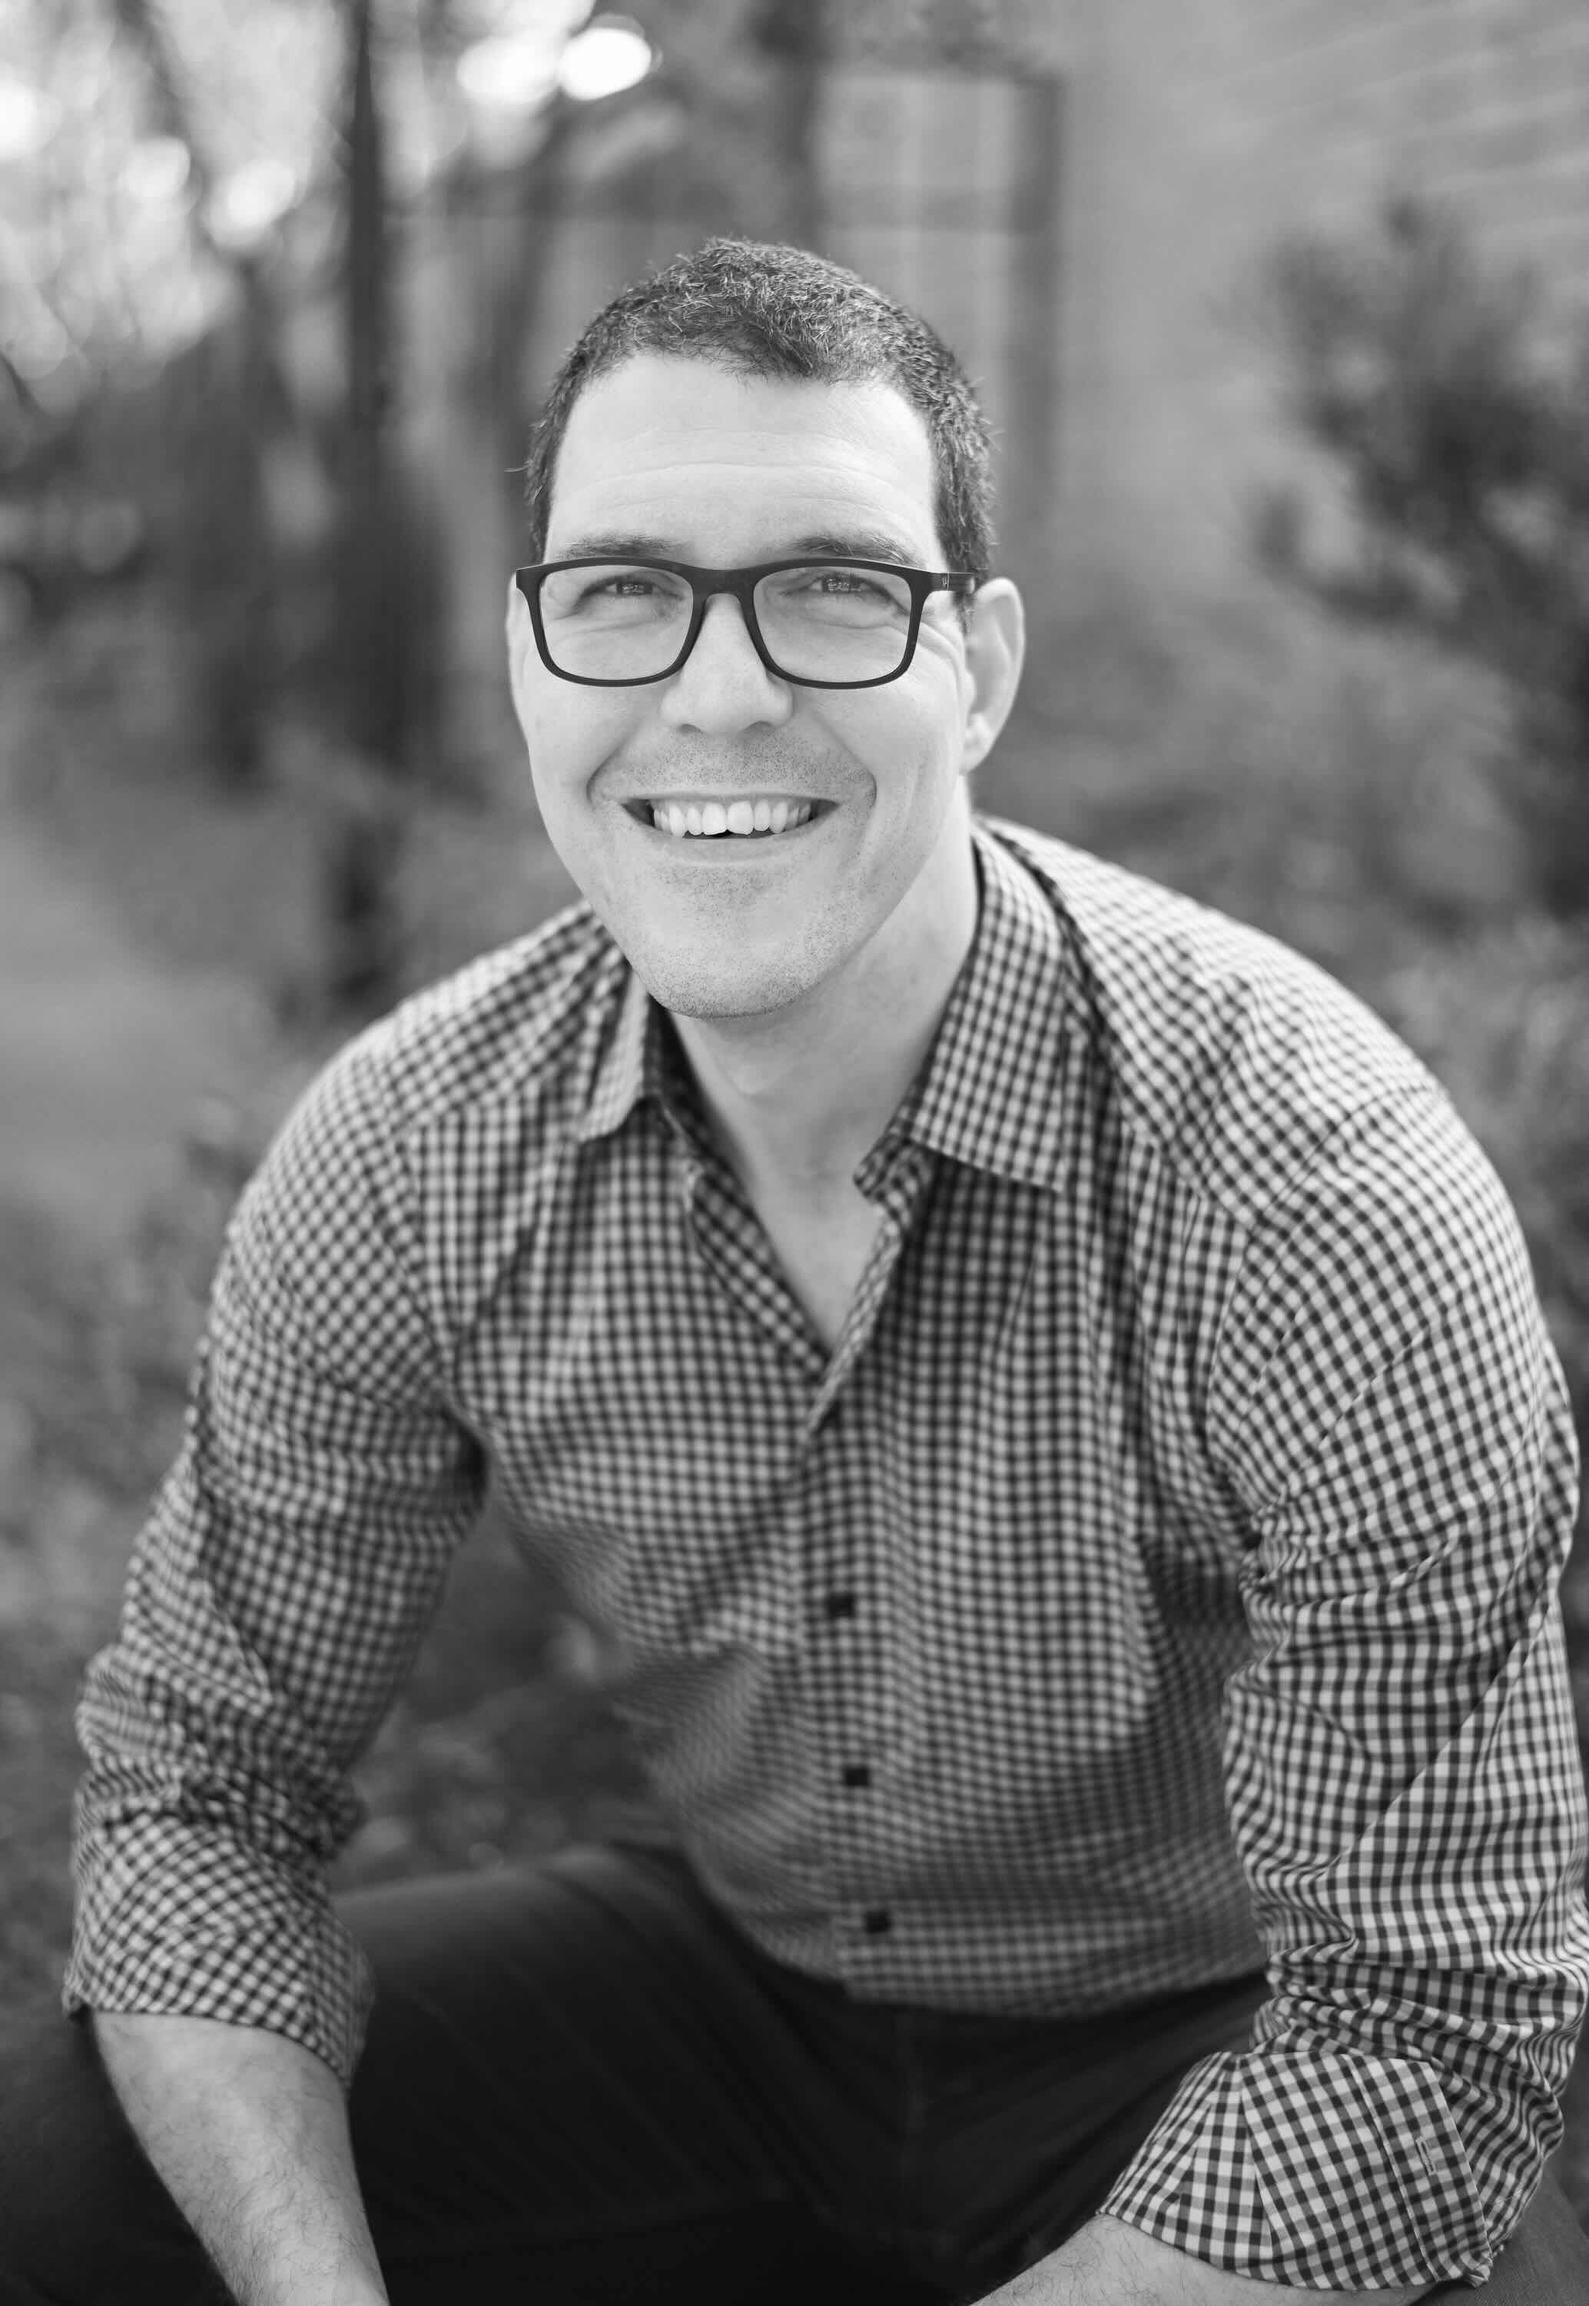
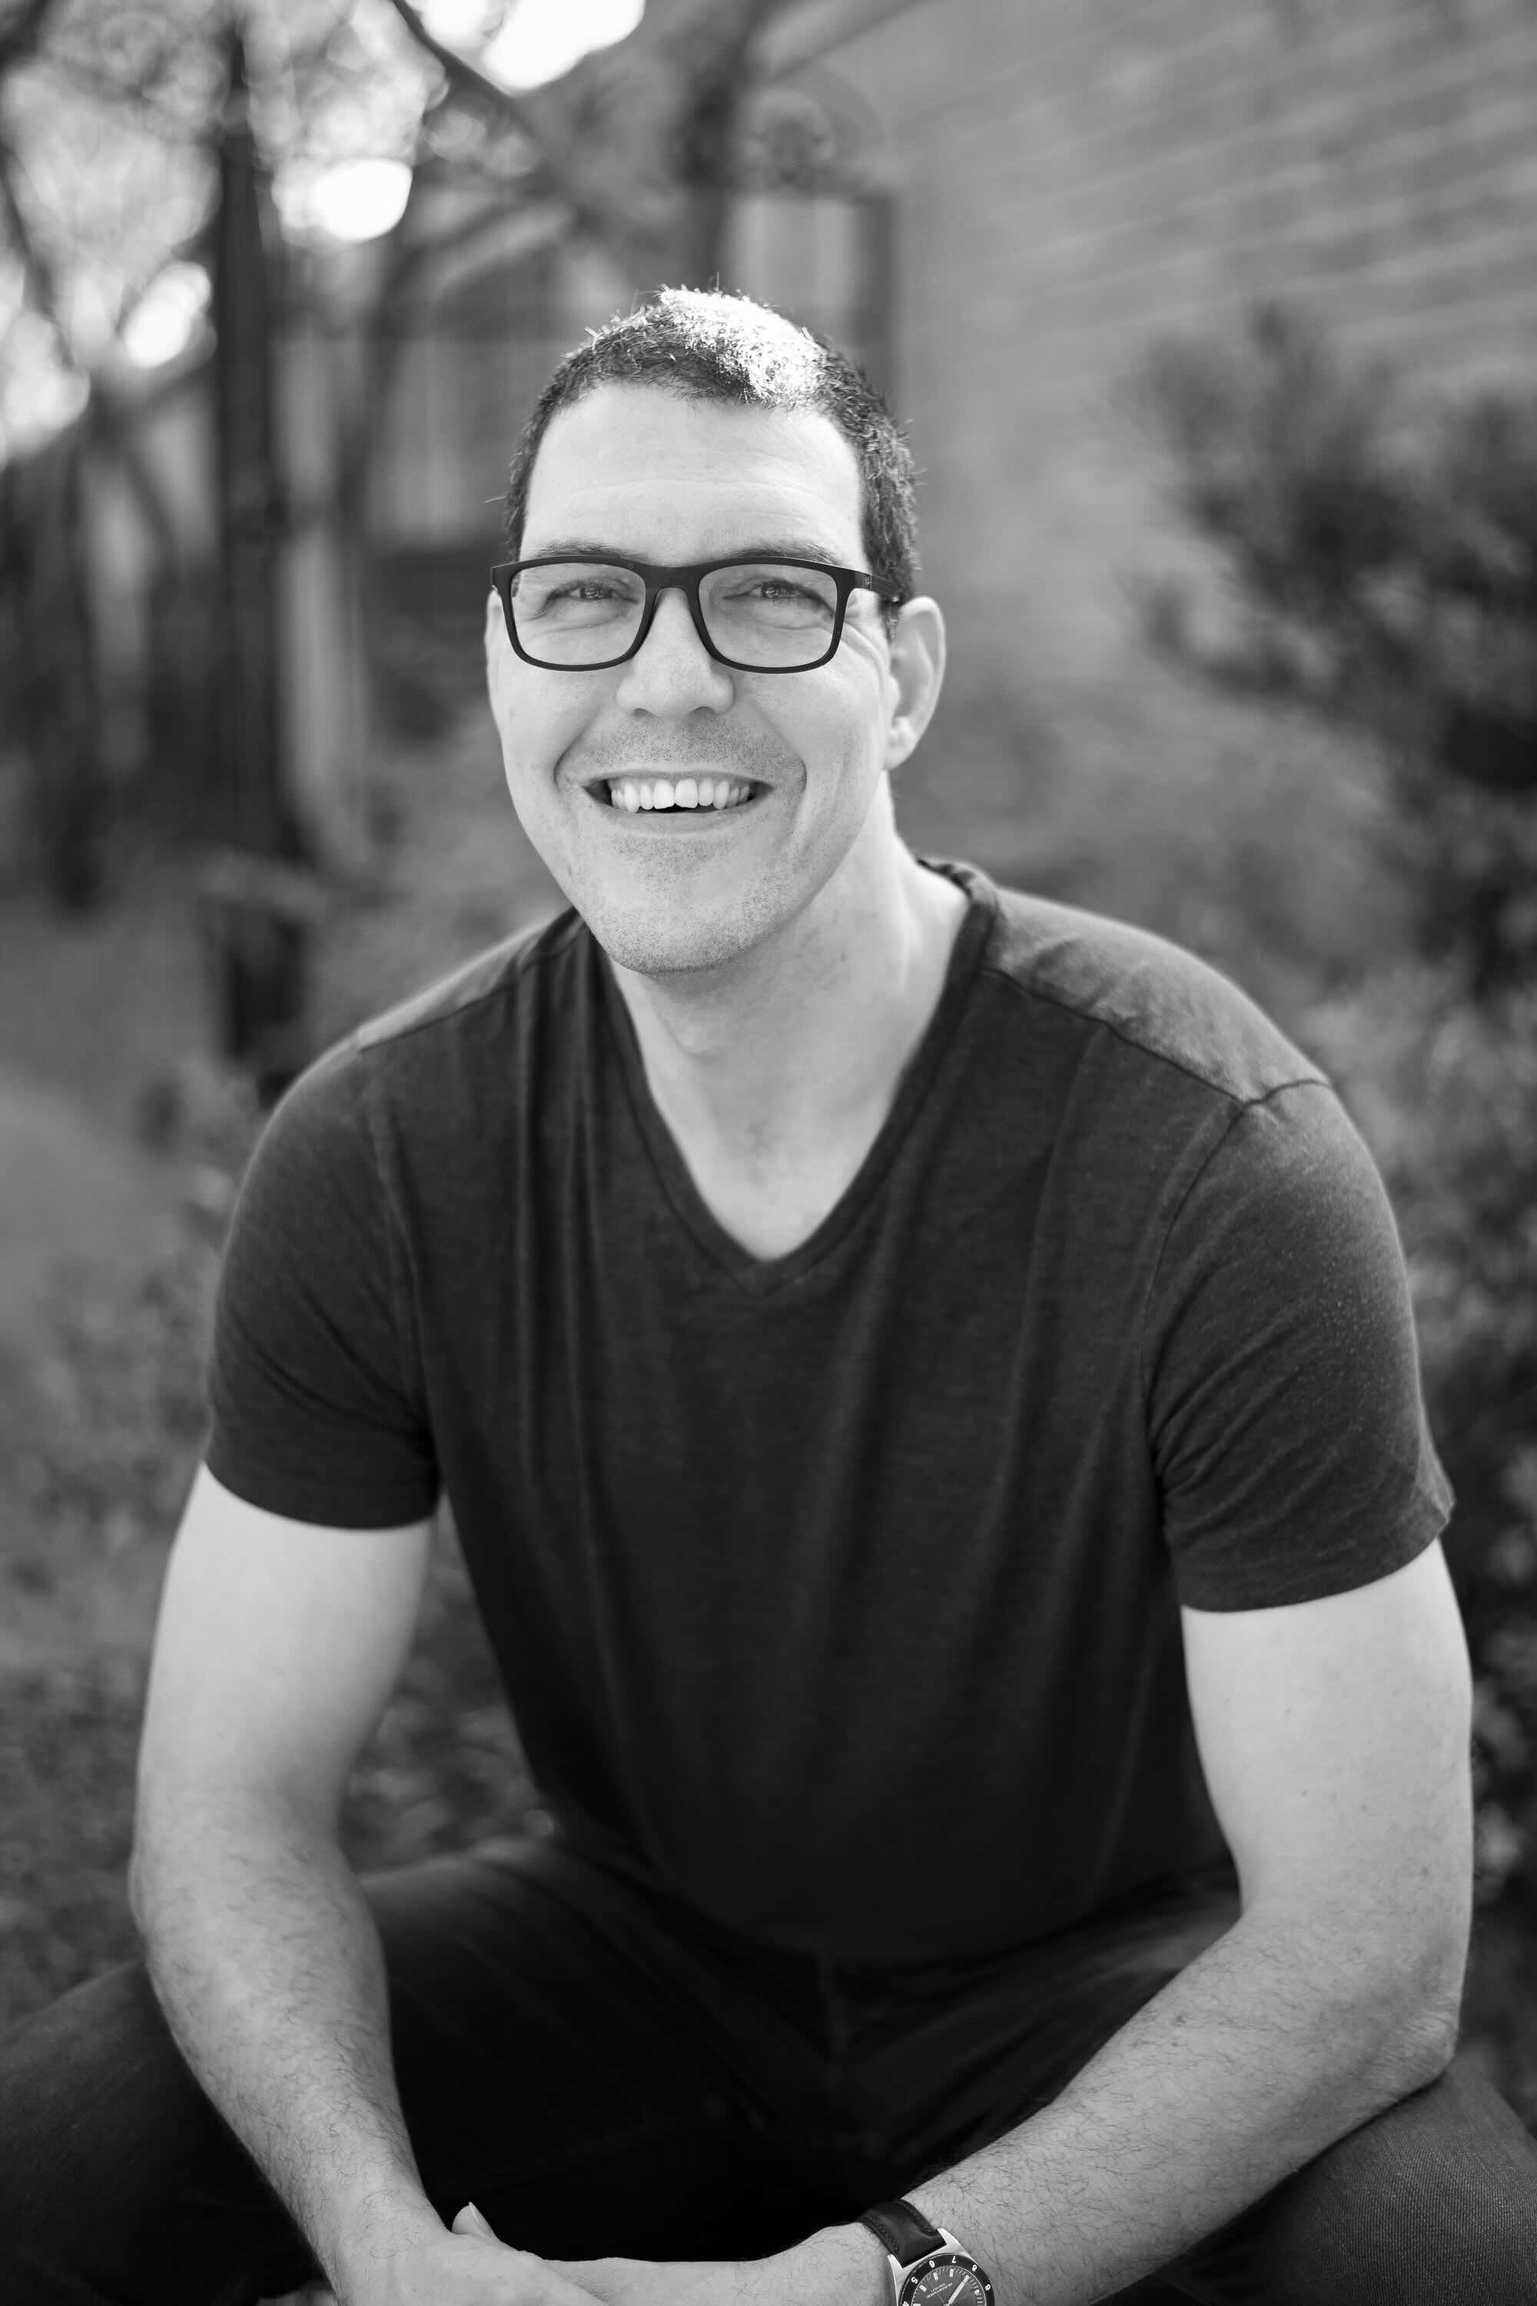
Updated bio, book text, headshot

diff --git a/_site/bio.html b/_site/bio.html
@@ -81,20 +81,40 @@
             <div class="post-thumbnail"><img src="/assets/images/authorimage.jpg" alt="Brandon Hastings" /></div>
             
             <div class="post-content">
-                <p>I used to write short sexy stories for my partner. Sometimes, they’d be based
-on a prompt she’d give me, like “Lady in Waiting” (I admit, I had to look up
-what that was on my phone as I was boarding a plane to Bangkok for a business
-trip, but when I came back two weeks later, I had a story for her). I was never
-very good at it, to be honest. She wanted some fun titillation to read on the beach,
-but I kept trying to sculpt three-dimensional characters. It was like a weird
-role reversal of typical gender stereotypes–she wanted sex and I wanted words.</p>
+                <p>I wanted to be a writer from a young age but opted for a safer career—”safe”
+both financially and from the vulnerability of being judged for exploring the
+complexity of human nature.</p>
+
+<p>I met my long-term partner online, and our relationship started with writing: 
+emails that explored both vulnerability and desire, followed by sexy short stories.
+She loves reading erotica, and in the confines of our relationship, I felt safe
+writing it for her. Sometimes I’d write vignettes based on our own experiences.
+Other times I’d write a short story based on a simple prompt she’d give me, like
+“Lady in Waiting.” (I admit, I had to look up what that was as I was boarding a plane
+to Bangkok for a business trip. Two weeks later, I came back with a story for her.)</p>
+
+<p>I was never very good at it, to be honest. She wanted fun titillation—a
+Literotica-style beach read. I kept drifting toward uncomfortable feelings, using
+erotica as a lens for emotional interiority. It was like a weird role reversal of
+gender stereotypes: she wanted sex; I wanted words and feelings.</p>
 
 <p>The first prompt she ever gave me was “Mayan Ruins,” to build anticipation of
-an upcoming vacation to Playa del Carmen. I didn’t get around to it until several
-years later, by which time I decided to stop pretending that I didn’t want to be
-a real writer. She supported me through the whole process, as long as I promised
-to keep it at least a little about sex…</p>
+an upcoming vacation to Playa del Carmen. That was early in our relationship,
+before the real-life complexities of health and family and long-term partnership
+had reared their heads. Being the clever wordsmith, I secretly toyed with the idea
+of writing <em>Maya, Ruined</em>—some <em>Ocean’s Eleven</em>-style scheming to make sure Maya had a
+Very Good Time.</p>
 
+<p>It was years before I actually started writing <em>Mayan Ruins</em>. By then, those
+real-life complexities had arrived, and the world at large felt darker and more
+dangerous. Exhausted from my safe career, I took advantage of a sabbatical to
+revisit my writing dreams, and embraced the kind of writing where characters
+feel real and complex, three-dimensional sculptures rather than simple caricatures.
+By picking up a prompt that had been abandoned for nearly a decade, I gave myself
+the safety of pretending that I was still writing for someone else, allowing me to
+explore vulnerability and human nature more deeply than I ever had before.</p>
+
+<p>As long as Maya got properly ruined in the end.</p>
 
             </div>
         </article>

diff --git a/_site/mayan-ruins.html b/_site/mayan-ruins.html
@@ -86,23 +86,20 @@
 
   <div class="book-details">
     <p class="book-tagline">The most important story is the one we tell ourselves</p>
-
     <p class="book-description">
-      The Girl from Dujail once ran through nightmares and date orchards as Saddam Hussein executed her family. Now, as Dr. Maya Russell, she sprints from one casual encounter to the next, using raw sensuality to numb the pain and keep true intimacy at bay. But when she performs a life-saving abortion on an autistic thirteen-year-old girl, Maya finds herself at the center of a political firestorm she can no longer outrun.
+      Mayyada al-Rahbani was seven when she sprinted through the date orchards of Dujail while Saddam Hussein executed her family. Her escape made international headlines as she navigated a war zone and found refuge in Kuwait City. Renamed Maya and raised by adoptive North American parents, she spent the next four decades running--from journalists, intimacy, her marriage, and into the anonymity of strangers’ beds.
     </p>
     <p class="book-description">
-      When Texas Governor Wade Callahan targets her for prosecution to fuel his presidential ambitions, the walls of Maya’s carefully constructed life begin to crumble. As her fate entangles with the fractured family of her patient, Maya is forced to stop running. Reconnecting with her ex-husband, she embarks on a radical journey of psychological exploration and reclamation.
+      But everything changes when Maya performs a life-saving abortion on a thirteen-year-old girl. Eager to fuel his presidential ambitions, Texas Governor Wade Callahan targets her for prosecution, reigniting the media firestorm about her past. As her life collides with her ex-husband and the fractured family of her patient, Maya is forced to face everything she has spent a lifetime outrunning.
     </p>
     <p class="book-description">
-      Through interweaving timelines and perspectives, <em>Mayan Ruins</em> explores how bodies become battlegrounds, how sex can be both shield and sword, and how the stories we tell ourselves can both imprison and liberate us.
+      <em>Mayan Ruins</em> blends psychological complexity, erotic sensuality, and contemporary moral dilemmas into a layered story of personal reckoning. It explores how bodies become battlegrounds, how sex can be both shield and sword, and how the stories we tell ourselves can imprison us--or set us free.
     </p>
 
     <div class="buy-links">
       <h3>Available Now</h3>
       <ul>
         <li><a href="#" class="btn">Amazon</a></li>
-        <li><a href="#" class="btn btn-outlined">Barnes &amp; Noble</a></li>
-        <li><a href="#" class="btn btn-outlined">Bookshop.org</a></li>
       </ul>
     </div>
   </div>

diff --git a/bio.md b/bio.md
@@ -6,19 +6,37 @@ featured_image: /assets/images/authorimage.jpg
 page_class: bio-page
 ---
 
-I used to write short sexy stories for my partner. Sometimes, they'd be based
-on a prompt she'd give me, like "Lady in Waiting" (I admit, I had to look up
-what that was on my phone as I was boarding a plane to Bangkok for a business
-trip, but when I came back two weeks later, I had a story for her). I was never
-very good at it, to be honest. She wanted some fun titillation to read on the beach,
-but I kept trying to sculpt three-dimensional characters. It was like a weird
-role reversal of typical gender stereotypes--she wanted sex and I wanted words.
+I wanted to be a writer from a young age but opted for a safer career—"safe"
+both financially and from the vulnerability of being judged for exploring the
+complexity of human nature.
+
+I met my long-term partner online, and our relationship started with writing: 
+emails that explored both vulnerability and desire, followed by sexy short stories.
+She loves reading erotica, and in the confines of our relationship, I felt safe
+writing it for her. Sometimes I'd write vignettes based on our own experiences.
+Other times I'd write a short story based on a simple prompt she'd give me, like
+"Lady in Waiting." (I admit, I had to look up what that was as I was boarding a plane
+to Bangkok for a business trip. Two weeks later, I came back with a story for her.)
+
+I was never very good at it, to be honest. She wanted fun titillation---a
+Literotica-style beach read. I kept drifting toward uncomfortable feelings, using
+erotica as a lens for emotional interiority. It was like a weird role reversal of
+gender stereotypes: she wanted sex; I wanted words and feelings.
 
 The first prompt she ever gave me was "Mayan Ruins," to build anticipation of
-an upcoming vacation to Playa del Carmen. I didn't get around to it until several
-years later, by which time I decided to stop pretending that I didn't want to be
-a real writer. She supported me through the whole process, as long as I promised
-to keep it at least a little about sex...
+an upcoming vacation to Playa del Carmen. That was early in our relationship,
+before the real-life complexities of health and family and long-term partnership
+had reared their heads. Being the clever wordsmith, I secretly toyed with the idea
+of writing _Maya, Ruined_—some _Ocean's Eleven_-style scheming to make sure Maya had a
+Very Good Time.
 
+It was years before I actually started writing _Mayan Ruins_. By then, those
+real-life complexities had arrived, and the world at large felt darker and more
+dangerous. Exhausted from my safe career, I took advantage of a sabbatical to
+revisit my writing dreams, and embraced the kind of writing where characters
+feel real and complex, three-dimensional sculptures rather than simple caricatures.
+By picking up a prompt that had been abandoned for nearly a decade, I gave myself
+the safety of pretending that I was still writing for someone else, allowing me to
+explore vulnerability and human nature more deeply than I ever had before.
 
-
+As long as Maya got properly ruined in the end.

diff --git a/mayan-ruins.md b/mayan-ruins.md
@@ -11,23 +11,20 @@ permalink: /mayan-ruins
 
   <div class="book-details">
     <p class="book-tagline">The most important story is the one we tell ourselves</p>
-
     <p class="book-description">
-      The Girl from Dujail once ran through nightmares and date orchards as Saddam Hussein executed her family. Now, as Dr. Maya Russell, she sprints from one casual encounter to the next, using raw sensuality to numb the pain and keep true intimacy at bay. But when she performs a life-saving abortion on an autistic thirteen-year-old girl, Maya finds herself at the center of a political firestorm she can no longer outrun.
+      Mayyada al-Rahbani was seven when she sprinted through the date orchards of Dujail while Saddam Hussein executed her family. Her escape made international headlines as she navigated a war zone and found refuge in Kuwait City. Renamed Maya and raised by adoptive North American parents, she spent the next four decades running--from journalists, intimacy, her marriage, and into the anonymity of strangers’ beds.
     </p>
     <p class="book-description">
-      When Texas Governor Wade Callahan targets her for prosecution to fuel his presidential ambitions, the walls of Maya’s carefully constructed life begin to crumble. As her fate entangles with the fractured family of her patient, Maya is forced to stop running. Reconnecting with her ex-husband, she embarks on a radical journey of psychological exploration and reclamation.
+      But everything changes when Maya performs a life-saving abortion on a thirteen-year-old girl. Eager to fuel his presidential ambitions, Texas Governor Wade Callahan targets her for prosecution, reigniting the media firestorm about her past. As her life collides with her ex-husband and the fractured family of her patient, Maya is forced to face everything she has spent a lifetime outrunning.
     </p>
     <p class="book-description">
-      Through interweaving timelines and perspectives, <em>Mayan Ruins</em> explores how bodies become battlegrounds, how sex can be both shield and sword, and how the stories we tell ourselves can both imprison and liberate us.
+      <em>Mayan Ruins</em> blends psychological complexity, erotic sensuality, and contemporary moral dilemmas into a layered story of personal reckoning. It explores how bodies become battlegrounds, how sex can be both shield and sword, and how the stories we tell ourselves can imprison us--or set us free.
     </p>
 
     <div class="buy-links">
       <h3>Available Now</h3>
       <ul>
         <li><a href="#" class="btn">Amazon</a></li>
-        <li><a href="#" class="btn btn-outlined">Barnes & Noble</a></li>
-        <li><a href="#" class="btn btn-outlined">Bookshop.org</a></li>
       </ul>
     </div>
   </div>
